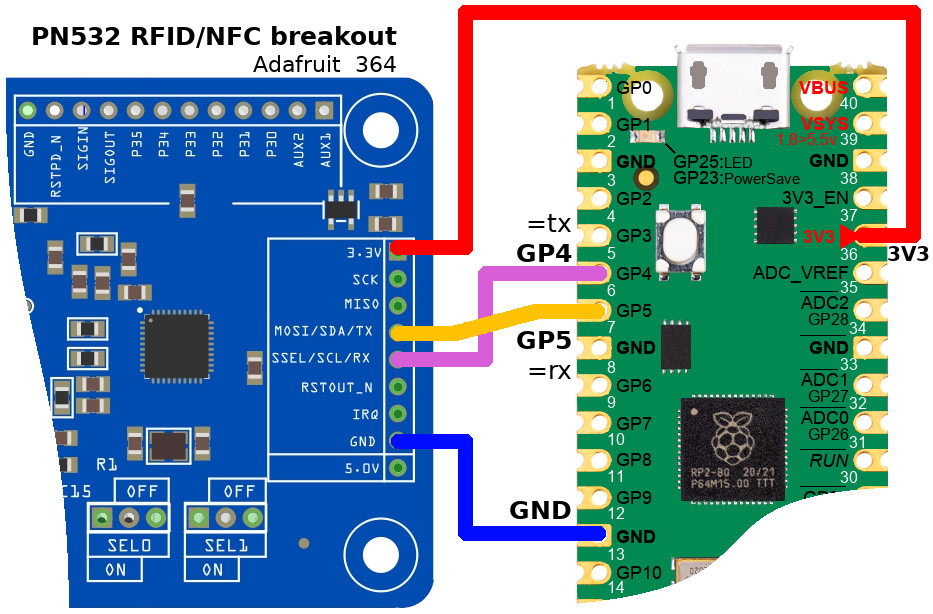
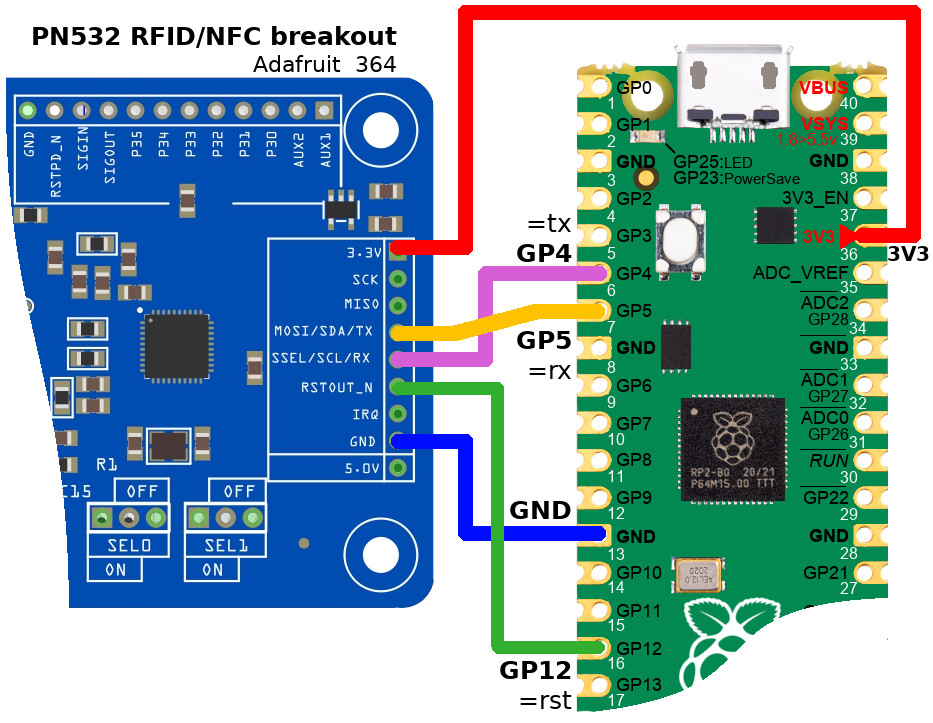
pn532: use reset pin with Serial communication

diff --git a/pn532-rfid/lib/hal_uart.py b/pn532-rfid/lib/hal_uart.py
@@ -11,13 +11,24 @@ Author(s):
 See Github: https://github.com/mchobby/esp8266-upy/tree/master/pn532-rfid
 """
 # Based on https://github.com/elechouse/PN532/blob/PN532_HSU/PN532_HSU/PN532_HSU.h
+__version__ = '0.0.2'
 
-from machine import UART
+from machine import UART,Pin
 from pn_intf import *
+import time
 
 class PN_UART:
-	def __init__( self, UART_ID, timeout=5000 ):
-		self.ser = UART( UART_ID, baudrate=115200, timeout=timeout ) # 8n1, PN532_HSU_READ_TIMEOUT=1000
+	def __init__( self, UART_ID, pn_rst, timeout=5000 ):
+		""" pn_rst is the PN532 Reset Pin, initialized @ value 1 """
+		self.ser = UART( UART_ID, baudrate=115200, bits=8, parity=None, stop=1, timeout=timeout ) # 8n1, PN532_HSU_READ_TIMEOUT=1000
+		self.reset = pn_rst
+		#--- Magic call to wake up the pn532 with getting powered from 12V ----
+		self.reset.value(0) # pn532 resets on falling edge
+		time.sleep_ms(10)
+		self.reset.value(1)
+		time.sleep_ms(10)
+		self.wake_up()
+		#--- eof Magic (don't forget to call PN.begin() to get a  second wake up call)
 		self.command = 0 # Last command used in write_command()
 		self.buf6 = bytearray( 6 )
 		self.buf3 = bytearray( 3 )

diff --git a/pn532-rfid/examples/memdump_mifare.py b/pn532-rfid/examples/memdump_mifare.py
@@ -18,9 +18,10 @@ from pn_const import *
 from hal_uart import PN_UART
 from pn532 import PN532
 from binascii import hexlify
+from machine import Pin
 import time
 
-uart_hal = PN_UART( 1, 1000 ) # Using PN532 over UART, timeout=1000 ms
+uart_hal = PN_UART( 1, Pin(12,Pin.OUT,value=1) ,1000 ) # Uart_ID, ResetPin, TimeOut ms
 nfc = PN532( uart_hal )
 nfc.begin()
 

diff --git a/pn532-rfid/examples/read_mifare.py b/pn532-rfid/examples/read_mifare.py
@@ -18,9 +18,10 @@ from pn_const import *
 from hal_uart import PN_UART
 from pn532 import PN532
 from binascii import hexlify
+from machine import Pin
 import time
 
-uart_hal = PN_UART( 1, 1000 ) # Using PN532 over UART, timeout=1000 ms
+uart_hal = PN_UART( 1, Pin(12,Pin.OUT,value=1) ,1000 ) # Uart_ID, ResetPin, TimeOut ms
 nfc = PN532( uart_hal )
 nfc.begin()
 

diff --git a/pn532-rfid/examples/write_mifare.py b/pn532-rfid/examples/write_mifare.py
@@ -19,9 +19,10 @@ from pn_const import *
 from hal_uart import PN_UART
 from pn532 import PN532
 from binascii import hexlify
+from machine import Pin
 import time
 
-uart_hal = PN_UART( 1, 1000 ) # Using PN532 over UART, timeout=1000 ms
+uart_hal = PN_UART( 1, Pin(12,Pin.OUT,value=1) ,1000 ) # Uart_ID, ResetPin, TimeOut ms
 nfc = PN532( uart_hal )
 nfc.begin()
 

diff --git a/pn532-rfid/lib/pn532.py b/pn532-rfid/lib/pn532.py
@@ -14,6 +14,8 @@ See Github: https://github.com/mchobby/esp8266-upy/tree/master/pn532-rfid
 # based on Arduino implementation
 #      https://github.com/elechouse/PN532/blob/PN532_HSU/PN532/PN532.cpp
 
+__version__ = '0.0.2'
+
 from pn_const import *
 
 class PN532:

diff --git a/pn532-rfid/readme.md b/pn532-rfid/readme.md
@@ -27,7 +27,7 @@ Voici comment en apprendre plus sur les procédés de stockage de données sur d
 
 # Bibliothèque
 
-__Limitation de la bibliothèque__ : actuellement, seul la __communication par UART__ est pris en charge par la bibliothèque.
+__Limitation de la bibliothèque__ : actuellement, seul la __communication par UART__ est pris en charge par la bibliothèque. L'utilisation d'un signal Reset et double wake_up() est nécessaire pour activer le pn532 via UART.
 
 __Sponsor__ : Merci au [Lycée Français Jean Monnet](https://www.lyceefrancais-jmonnet.be/) qui a aimablement sponsorisé le développement de cette bibliothèque MicroPython.
 

diff --git a/pn532-rfid/readme_ENG.md b/pn532-rfid/readme_ENG.md
@@ -27,7 +27,7 @@ Here how you can learn more about the storing data onto a memory capable tag:
 
 # Library
 
-__Library limitation__ : presently only the __UART based__ version of the library is implemented.
+__Library limitation__ : presently only the __UART based__ version of the library is implemented. Using a reset signal and double wake_up() is required to activates the pn532 over an UART.
 
 __Library sponsor__ : thank to the [Lycée Français Jean Monnet](https://www.lyceefrancais-jmonnet.be/) which sponsored the creation of this library.
 
